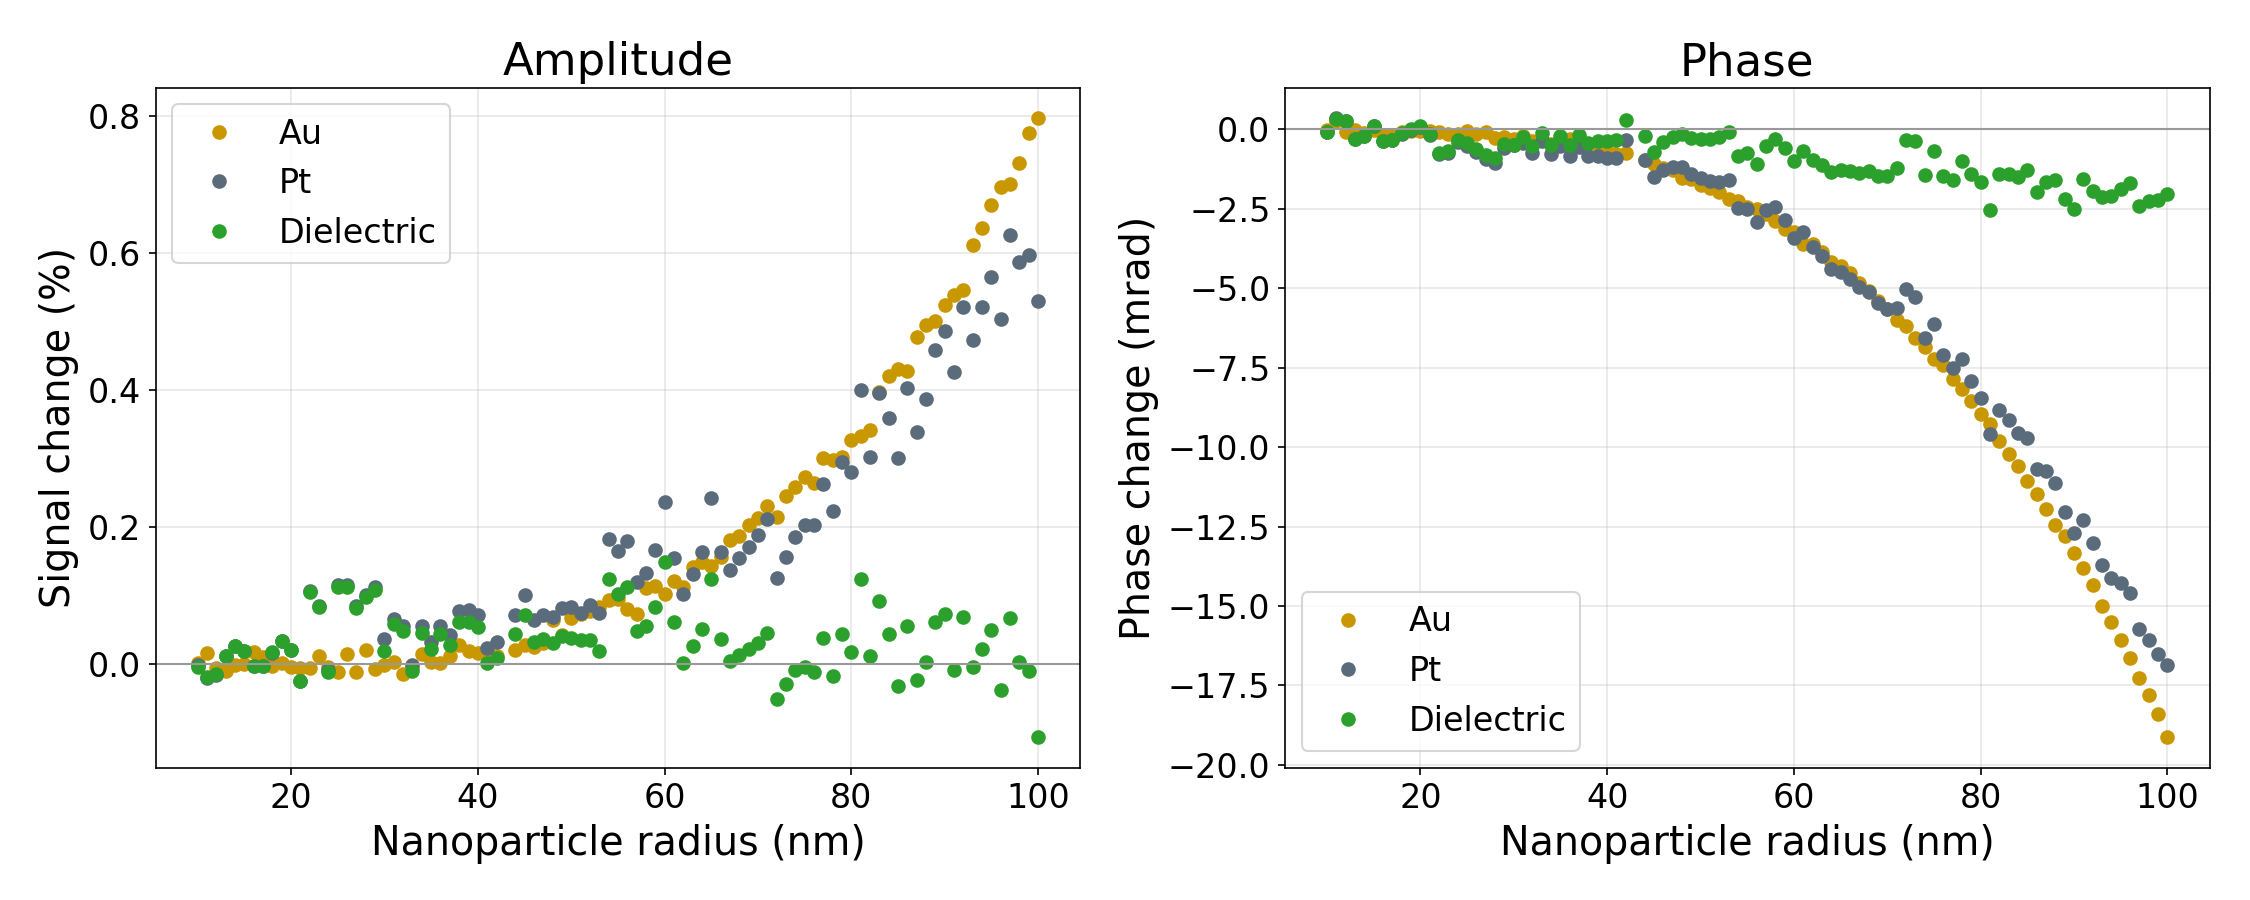
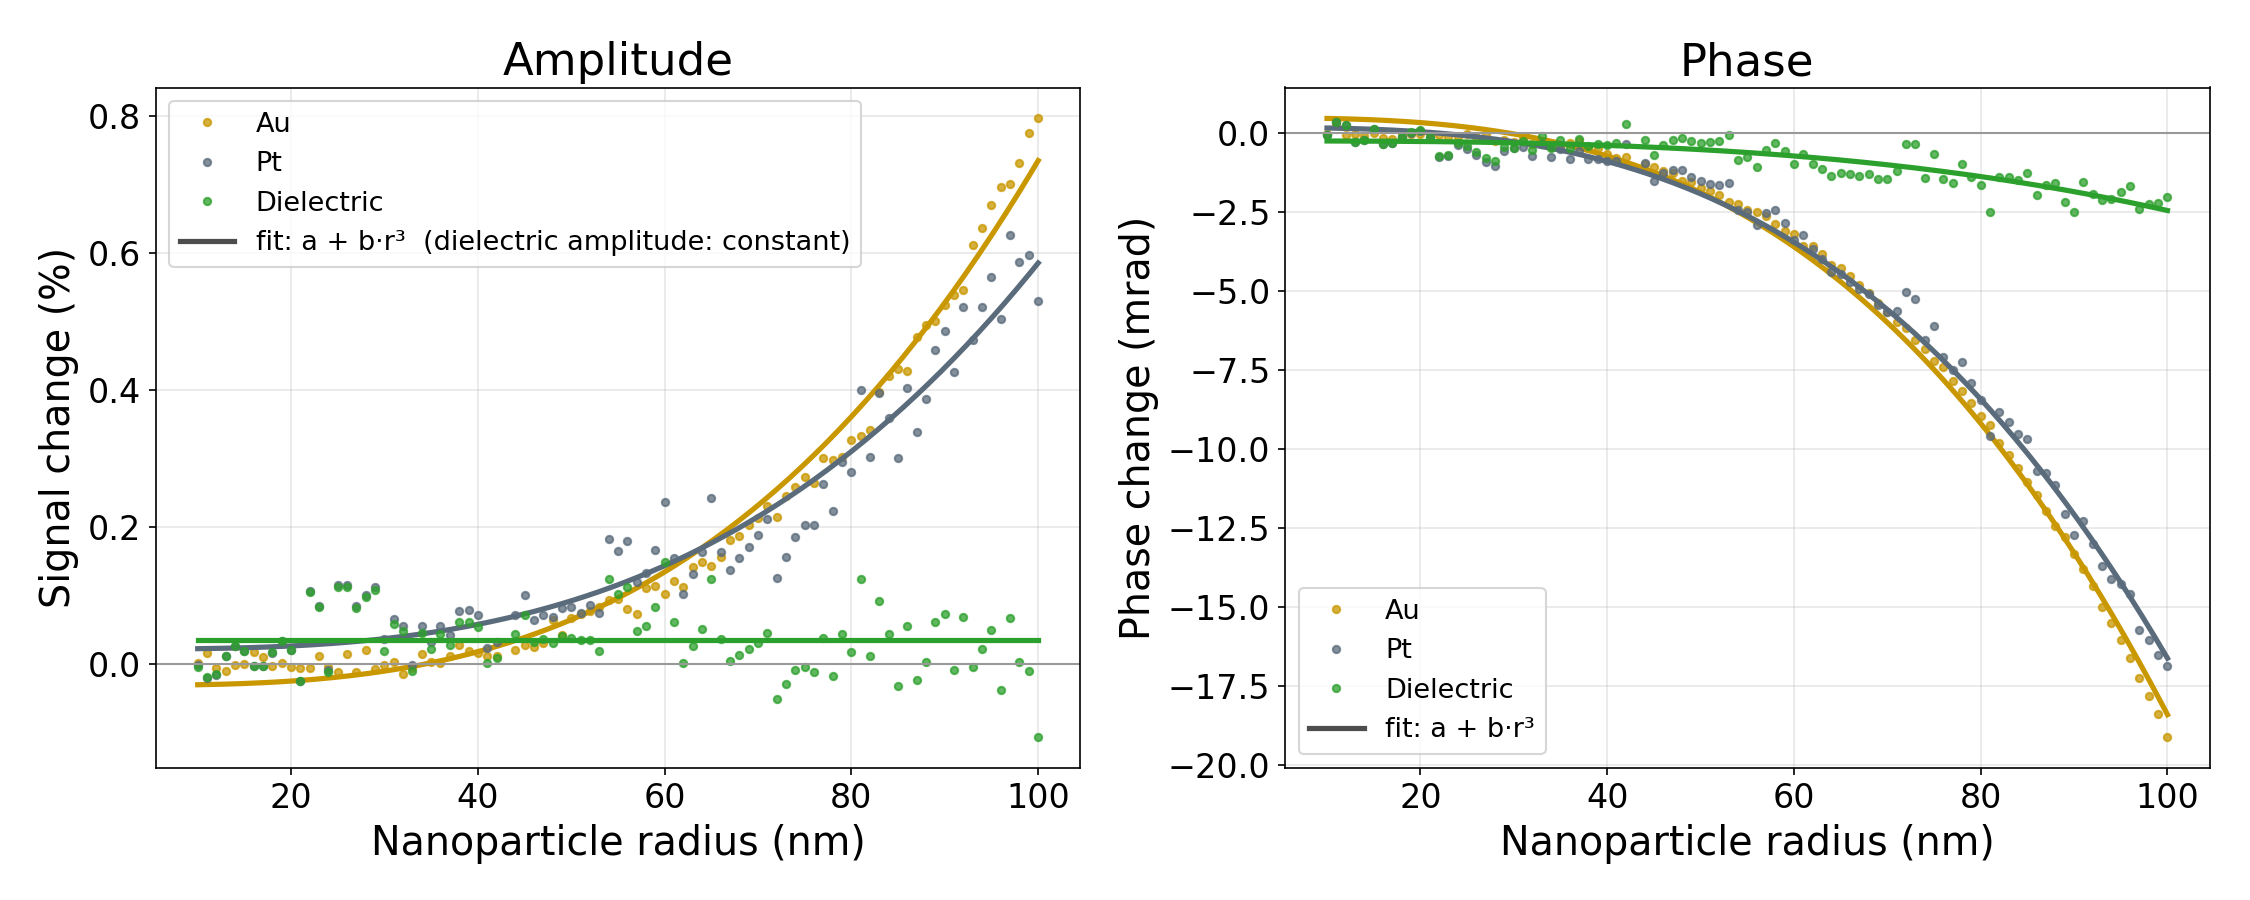
NP size OnlyNP figure: smaller dots, r^3 fits, flat dielectric amplitude

diff --git a/NP_size_replot/replot_np.py b/NP_size_replot/replot_np.py
@@ -68,14 +68,27 @@ def plot_onlynp():
             o = np.argsort(r)
             r, E = r[o], E[o]
             ref = E[:5].mean()                                       # smallest particles (10-14 nm) as baseline
-            ax[0].plot(r, (np.abs(E)/abs(ref) - 1)*100, 'o', ms=6, color=c, label=lab)
-            ax[1].plot(r, (np.unwrap(np.angle(E)) - np.angle(ref))*1e3, 'o', ms=6, color=c, label=lab)
+            amp = (np.abs(E)/abs(ref) - 1)*100
+            ph = (np.unwrap(np.angle(E)) - np.angle(ref))*1e3
+            rr = np.linspace(r.min(), r.max(), 200)
+            for k, y in enumerate((amp, ph)):
+                ax[k].plot(r, y, 'o', ms=3.5, color=c, alpha=0.75, label=lab)
+                if key == 'Dielectric' and k == 0:                       # no size dependence: flat line
+                    ax[k].plot(rr, np.full_like(rr, y.mean()), '-', lw=2.5, color=c)
+                else:                                                    # a + b r^3 (particle volume)
+                    A = np.vstack([np.ones_like(r), r**3]).T
+                    cf = np.linalg.lstsq(A, y, rcond=None)[0]
+                    ax[k].plot(rr, cf[0] + cf[1]*rr**3, '-', lw=2.5, color=c)
         ax[0].set(xlabel='Nanoparticle radius (nm)', ylabel='Signal change (%)', title='Amplitude')
         ax[1].set(xlabel='Nanoparticle radius (nm)', ylabel='Phase change (mrad)', title='Phase')
+        from matplotlib.lines import Line2D
         for a in ax:
             a.axhline(0, color='0.6', lw=1)
             a.grid(alpha=0.3)
-            a.legend()
+            h, l = a.get_legend_handles_labels()
+            h += [Line2D([], [], color='0.3', lw=2.5)]
+            l += ['fit: a + b·r³  (dielectric amplitude: constant)' if a is ax[0] else 'fit: a + b·r³']
+            a.legend(h, l, fontsize=13)
         fig.tight_layout()
         out = os.path.join(HERE, 'figures', 'np_size_onlyNP.png')
         fig.savefig(out, dpi=150)
